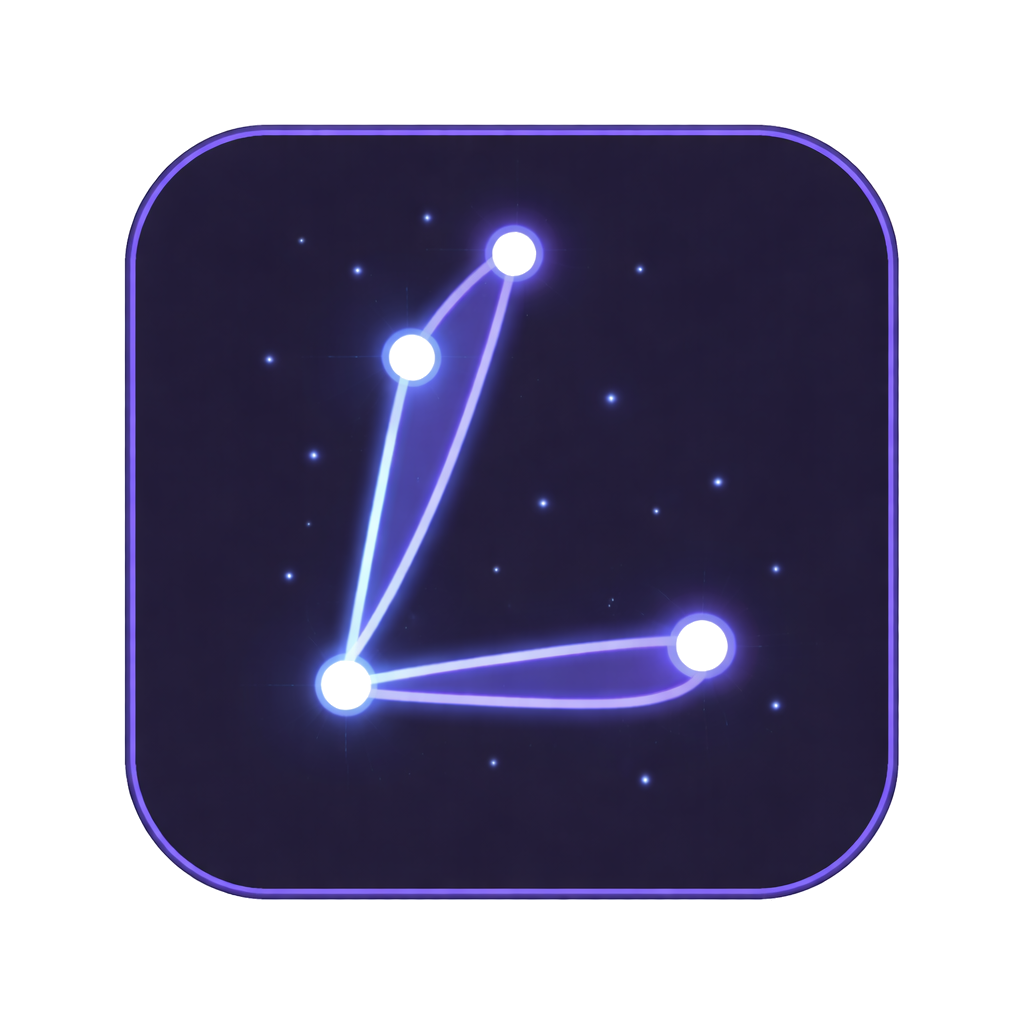
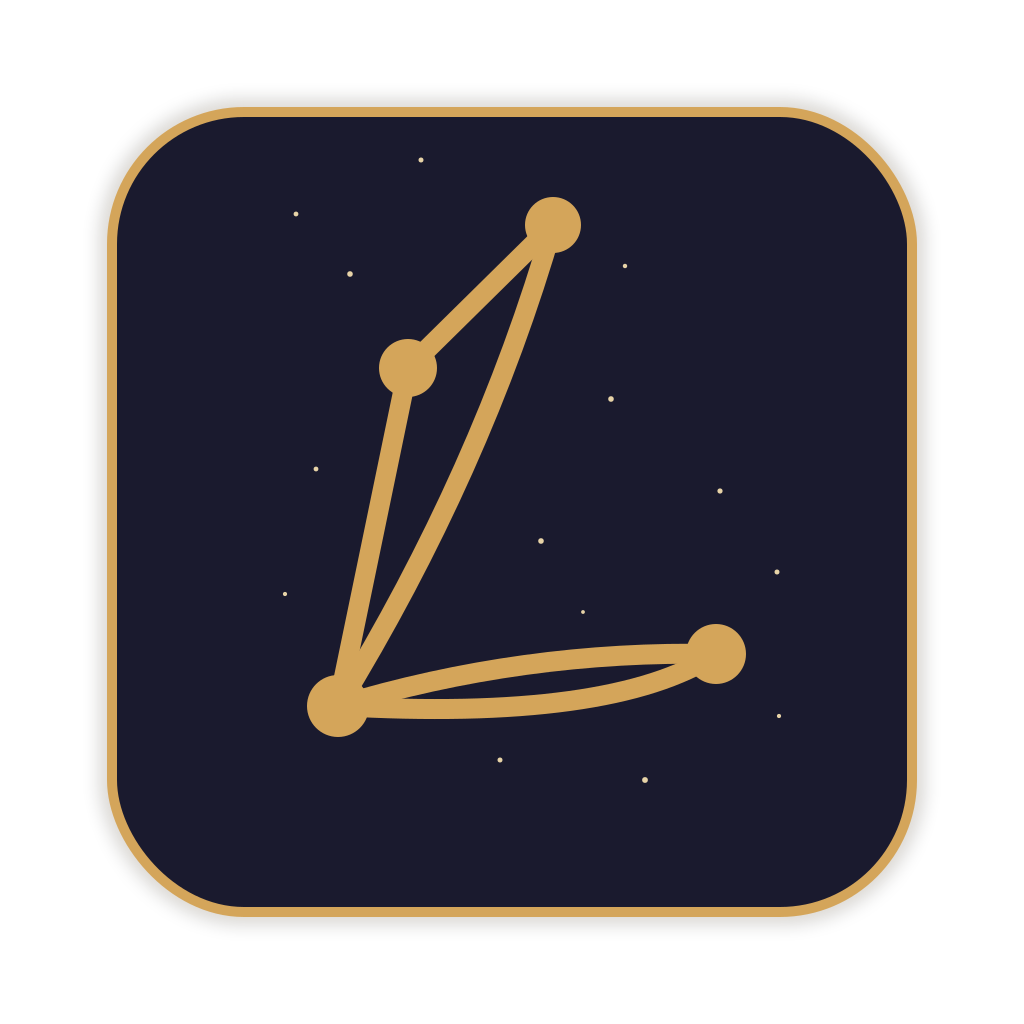
feat: rebrand from purple/blue to Library Amber color scheme
Replace default AI-purple palette with warm amber accent (#d4a55a dark,
#8a6520 light) while keeping blue/purple undertones in the galaxy
background. Update all logo and favicon assets to amber constellation.

diff --git a/web/src/styles/global.css b/web/src/styles/global.css
@@ -3,29 +3,29 @@
 /* LibTrails Design System - Inspired by trails.pieterma.es */
 
 @theme {
-  /* Dark theme (default) — matches Galaxy aesthetic */
-  --color-bg: #0f0f1a;
-  --color-surface: #1a1a2e;
+  /* Dark theme (default) — Library Amber palette */
+  --color-bg: #131210;
+  --color-surface: #1e1b17;
   --color-text: #e0e0e0;
   --color-text-muted: #999999;
-  --color-accent: #a0a0ff;
-  --color-accent-hover: #c0c0ff;
+  --color-accent: #d4a55a;
+  --color-accent-hover: #e0b86e;
   --color-border: rgba(255, 255, 255, 0.1);
-  --color-primary: #a0a0ff;
-  --color-primary-hover: #c0c0ff;
+  --color-primary: #d4a55a;
+  --color-primary-hover: #e0b86e;
 }
 
 /* Light theme overrides */
 [data-theme="light"] {
-  --color-bg: #fafaf9;
+  --color-bg: #faf8f5;
   --color-surface: #ffffff;
   --color-text: #1c1917;
   --color-text-muted: #78716c;
-  --color-accent: #6366f1;
-  --color-accent-hover: #4f46e5;
+  --color-accent: #8a6520;
+  --color-accent-hover: #735318;
   --color-border: #e7e5e4;
-  --color-primary: #6366f1;
-  --color-primary-hover: #4f46e5;
+  --color-primary: #8a6520;
+  --color-primary-hover: #735318;
 }
 
 /* Base styles */

diff --git a/web/src/components/GalaxyView.tsx b/web/src/components/GalaxyView.tsx
@@ -77,7 +77,7 @@ const SIDEBAR_DARK: SidebarColors = {
   text: "#e0e0e0",
   textMuted: "#888",
   textFaint: "rgba(255,255,255,0.3)",
-  accent: "#a0a0ff",
+  accent: "#d4a55a",
   chipBg: "rgba(255,255,255,0.06)",
   chipBgHover: "rgba(255,255,255,0.07)",
   ruleBorder: "rgba(255,255,255,0.06)",
@@ -90,7 +90,7 @@ const SIDEBAR_LIGHT: SidebarColors = {
   text: "#1c1917",
   textMuted: "#78716c",
   textFaint: "#a8a29e",
-  accent: "#6366f1",
+  accent: "#8a6520",
   chipBg: "rgba(0,0,0,0.05)",
   chipBgHover: "rgba(0,0,0,0.08)",
   ruleBorder: "rgba(0,0,0,0.08)",
